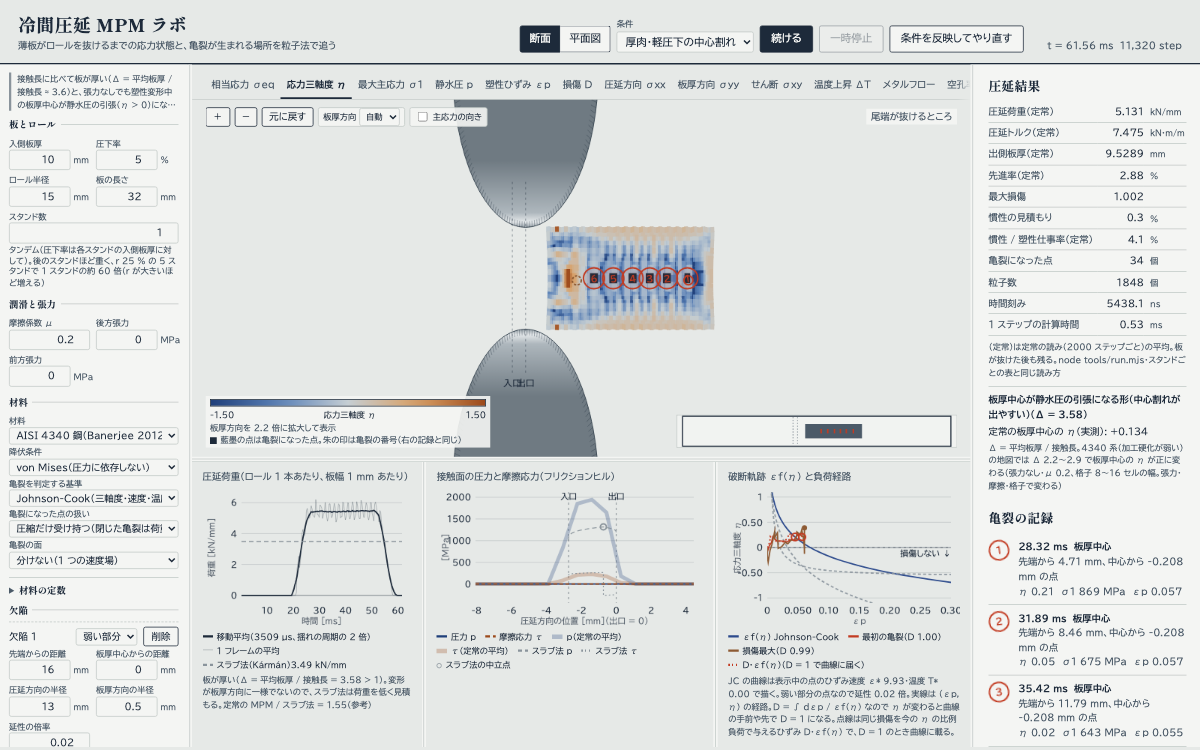
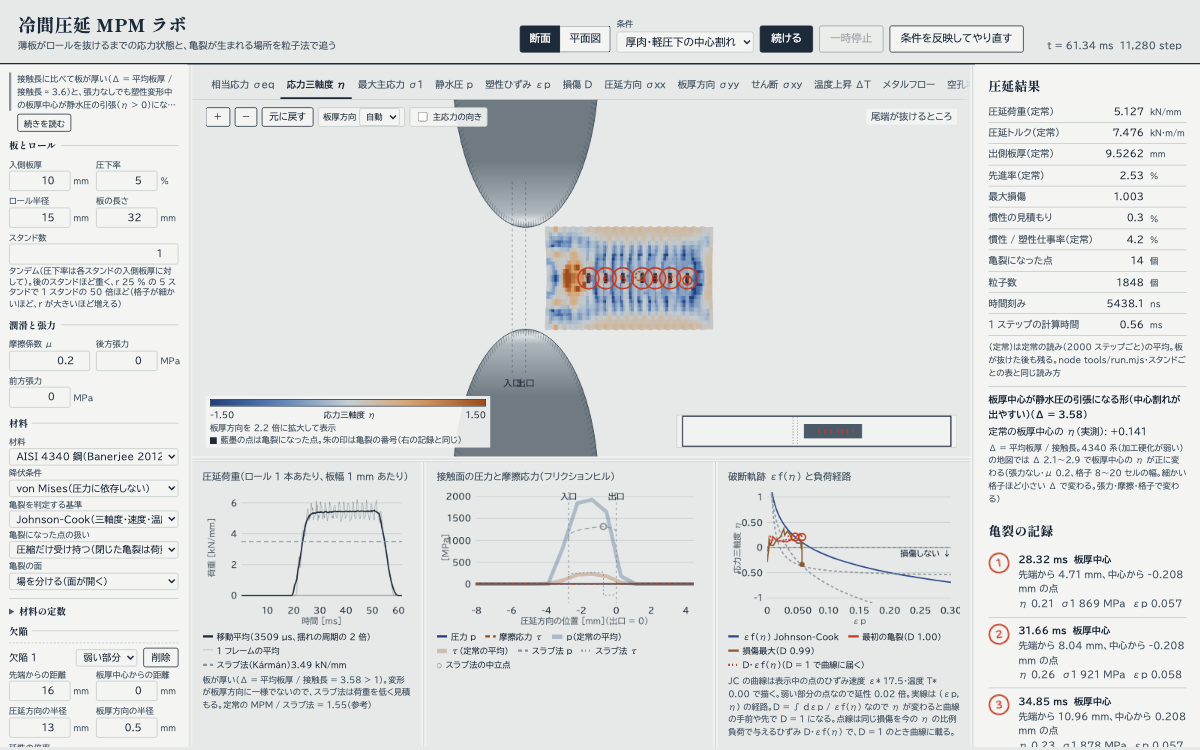
feat(crack): make the split crack faces (DFG) the default, and re-measure every crack number
numerics.crackFields goes from 'none' to 'dfg': near a crack the points split,
node by node, into two velocity fields that meet by frictionless contact, so the
faces open instead of carrying load through the shared nodes. ?crack=none and the
panel's 「分けない（1 つの速度場）」 go back to the old behaviour.

The one-line default is the small part. Every crack number in the docs was measured
under 'none', so all of them are re-measured here (grid, sheet length, mass scaling,
Node version and date written next to each):

- docs/presets.md: the front-tension threshold table, central burst (6 -> 7 cracks,
  34 -> 14 failed points, +1.8 -> +1.9 % forward slip), the ductility x grid table
- docs/validation.md: the plan-view edge-crack limits (C 0.1: 2 cracks / 112 points
  -> 1 crack / 106 points), the tandem front-tension break ('separated' -> 'lost',
  9.96 -> 9.57 % of the mass lost), the T52 edge-scatter tables (six seeds, the
  amount / width / correlation length sweep, both grids), the T46 failed-point
  pressure ratios, the central-burst steady values
- README.md: the front-tension and central-burst figures re-shot, the numbers and
  the wording of 「亀裂の面」 swapped round

Checked and written down where the default does NOT move anything: the central-burst
map (no damage, so no failed point and the run is bit-identical), the tandem cost
table (no failed point in any stand), and the README's front-tension figure (the
[…]

diff --git a/src/mpm/params.ts b/src/mpm/params.ts
@@ -156,10 +156,10 @@ export interface NumericsParams {
   /** which nodes the roll contact constrains */
   contact: ContactScheme;
   /**
-   * The faces of a crack (docs/model.md「亀裂の面」). 'none' (default): one velocity field, the two sides of a
-   * crack share the nodes around it. 'dfg': near a crack the points split, node by node, into two velocity fields
-   * by the side of the crack they are on (the gradient of the failed points' field, Homel & Herbold 2017); the
-   * fields meet by frictionless contact: they do not go through each other and are free to separate
+   * The faces of a crack (docs/model.md「亀裂の面」). 'dfg' (the default since T74): near a crack the points
+   * split, node by node, into two velocity fields by the side of the crack they are on (the gradient of the failed points' field, Homel & Herbold 2017); the
+   * fields meet by frictionless contact: they do not go through each other and are free to separate.
+   * 'none': one velocity field, the two sides of a crack share the nodes around it (what an omitted field means too)
    */
   crackFields?: 'none' | 'dfg';
   /**
@@ -327,7 +327,7 @@ export function defaultParams(): SimParams {
       volumetric: 'rate',
       volRelax: 1,
       volRelaxContact: 1,
-      crackFields: 'none',
+      crackFields: 'dfg',
       contact: 'surface',
     },
     defects: [],

diff --git a/src/app/panel.ts b/src/app/panel.ts
@@ -179,8 +179,8 @@ export function buildPanel(root: HTMLElement, onEdit: () => void): Panel {
   );
   matGroup.append(
     select('crack', '亀裂の面', [
-      ['none', '分けない（1 つの速度場）'],
       ['dfg', '場を分ける（面が開く）'],
+      ['none', '分けない（1 つの速度場）'],
     ]),
   );
 

diff --git a/docs/validation.md b/docs/validation.md
@@ -757,18 +757,25 @@ node（`node tools/planview.mjs --W 20 --cells 10 --L 28`）は 3.8 / 3.1 / 5.5 
   出口の先で端の圧縮の帯が広がる（端が圧縮で降伏し続ける）ことは**未検証**（比べる文献・解析解が無い）
 
 端割れ（W 20 mm・h 0.5 mm、板長 16 mm、Cockcroft-Latham、`--L 16 --damage cockcroft-latham --cl <C> [--notch <mm>]`）。
-**体積の平均化を入れて（T63）割れにくくなったので、限界値を測り直した**（下の「体積の平均化（平面図）」に前の値）:
+**体積の平均化を入れて（T63）割れにくくなったので、限界値を測り直した**（下の「体積の平均化（平面図）」に前の値）。
+下の表は**亀裂の面を既定の 'dfg' にした後の測り直し**（T74。2026-09-20、`feat/dfg-default`、Apple M2・Node 24.14、CPU ロック）:
 
 | 限界値 C | 切り欠き（半径） | 結果 |
 |---|---|---|
-| 0.1 | なし | 端（中央から 9.88 mm = 最外の列）から 2 本、合わせて 112 点（3.0 × 1.5 mm と 2.5 × 1.5 mm） |
-| 0.12 | なし | 端で 1 本、61 点（4.0 × 1.0 mm） |
+| 0.1 | なし | 端（中央から 9.88 mm = 最外の列）から 1 本、106 点（5.25 × 1.50 mm） |
+| 0.12 | なし | 端で 1 本、55 点（4.00 × 1.00 mm） |
 | 0.15 | なし | 割れない |
-| 0.1 | 0.5 mm | 端の帯（45 点）と切り欠きの根元（27 点、中央から 9.38 mm） |
-| 0.15 | 0.5 mm | 切り欠きの根元だけ 8 点（0.5 × 0.5 mm、η −0.03） |
+| 0.1 | 0.5 mm | 端の帯（43 点、2.50 × 1.25 mm）と切り欠きの根元（25 点、中央から 9.38 mm、1.00 × 1.50 mm） |
+| 0.15 | 0.5 mm | 切り欠きの根元だけ 4 点（0.25 × 0.25 mm、η −0.03） |
 | 0.2 | 0.5 mm | 割れない |
 
-割れの形は端に沿った帯で、圧延方向に直角にはならない（`docs/model.md`「平面図モデル」）。亀裂の面を分けても（'dfg'）帯のまま（下の「亀裂の面」の「平面図」）。
+**限界値の閾値は亀裂の面の扱いによらない**（割れる／割れないの境目は C 0.12〜0.15、切り欠きつきで 0.15〜0.2 のまま）。
+最初の割れも同じ（破壊した点が 1 つも無い間はビット一致するので、時刻・場所・η が変わらない。下の「亀裂の面」）。
+変わるのは**その後の割れの数と破壊した点の数**で、前の既定（'none'、場を分けない）では C 0.1 が 2 本・112 点（3.0 × 1.5 と 2.5 × 1.5 mm）、
+C 0.12 が 61 点、切り欠き + C 0.1 が 45 点と 27 点、切り欠き + C 0.15 が 8 点（0.5 × 0.5 mm）だった。
+破壊した点の数はどれも減る（面が開いて周りの引張を遮るため）。C 0.1 だけは割れの数が 2 → 1 本に減っているが、長さ 5.25 mm・106 点で 'none' の 2 本（3.0 + 2.5 mm・合計 112 点）とほぼ同じ範囲を占めるので、**2 本が 1 つの記録にまとまった**と読むのが素直（記録は核生成のたびに 1 つで、後から同じ帯に繋がった点は先の記録に入る）。
+
+割れの形は端に沿った帯で、圧延方向に直角にはならない（`docs/model.md`「平面図モデル」）。既定の 'dfg' でも帯のまま（下の「亀裂の面」の「平面図」）。
 関門の `tools/checks/planview.mjs`（幅 10 mm・h 0.5 mm、負荷の高い M2 で 27〜39 s）:
 - 平面応力: **すべての計算の毎ステップ**、接触していない点の |σ_yy| ≤ 0.01 MPa（解は 1 kPa で閉じる。今 1.0e-3 MPa）
 - 接触で板厚 = 隙間、接触が入れ替わらない（600 ステップで 3 回以上の点が 0）
@@ -899,6 +906,7 @@ v_z = 0 を全節点で強制した写しは中央 3.18・半幅平均 3.190 で
 - 荷重はスタンドごとに上がる（加工硬化。2 スタンド目で +14 %、3 スタンド目で +2 %）。最大損傷はスタンドをまたいで積み上がる
 - 点の数は 1.77 / 1.78 倍、所要は 2.7 / 2.3 倍（ステップが 1.4〜1.5 倍、点が 1.8 倍。負荷の軽いときの値）
 - 入側板厚（面積 ÷ 長さ）と出口の計測（前のスタンドの定常の出口の計測の平均）は 0.19 / 0.07 / 0.00 % 違う（出口の計測のほうが厚い: 表層の縁の測り方）
+- **この表は亀裂の面の扱いによらない**（T74）: どのスタンドも破壊した点が 0（最大損傷 0.0112）なので、'dfg' を既定にした計算は 'none' とビット一致する
 
 **費用**（T62）: `node tools/tandem.mjs --stands 1|5 --cells <N> --L <mm> --json` の壁時計（CPU ロック、`resource-check.sh timing` が OK のとき）。
 
@@ -912,10 +920,17 @@ v_z = 0 を全節点で強制した写しは中央 3.18・半幅平均 3.190 で
 5 スタンドの合計は 1 スタンドの 51 倍（4 セル）・79 倍（6 セル）。格子が細かいほど比は大きい。既定の 10 セル・板長 16 mm の 5 スタンドは測っていない
 （1 スタンドが約 90 s なので、この比なら 2 時間前後になる）。測定: 2026-09-20、main af3a981（4 セルの 3 組目は 438fa48。#63 は 'dfg' の経路だけを変える）、Apple M2・Node 24.14。
 
-**前方張力で 1 スタンド目に割れる条件**（`--preset front-tension --stands 2 --cells 4`、最初の板長 16 mm）:
-1 スタンド目で頭端の掴みのすぐ外に亀裂が 3 つ（破壊した点 20）。亀裂は板厚を貫き（隣り合う 3 列で、どの行にも破壊した点）、
-千切れた頭端（104 点、質量の 9.96 %）は done になる前に格子の外へ出た。**タンデムは 1 スタンド目の後で止まる**（`stopped` が
-'separated'。実機の板切れと同じ）。2 スタンド目は作らない。スタンドの結果に、失われた質量（`massLost`）と貫通（`separated`）が出る。
+**前方張力で 1 スタンド目に割れる条件**（`--preset front-tension --stands 2 --cells 4`、最初の板長 16 mm）。
+**亀裂の面を既定の 'dfg' にした後の測り直し**（T74）:
+1 スタンド目で頭端の掴みのすぐ外に亀裂が 3 つ（21.9 ms、ステップ 13 337 と 13 410、頭端から 1.6 mm、η 0.35〜0.62。
+記録に入った破壊した点は合わせて 6 点、締めの時点で格子に残るのは 4 点）。千切れた頭端は質量の 9.57 % を持って格子の外へ出て、
+**タンデムは 1 スタンド目の後で止まる**（`stopped` が 'lost'）。2 スタンド目は作らない。
+スタンドの結果に、失われた質量（`massLost` 0.0957）と貫通（`separated`、ここでは false）が出る。
+
+前の既定（'none'）では同じ条件で破壊した点が 20 で、隣り合う 3 列のどの行にも点があって**板厚を貫き**、`separated` が true になって
+'separated' で止まっていた（千切れた頭端は 104 点・質量の 9.96 %）。面を分けると割れ目が開いた時点で頭端が荷重を運ばなくなるので、
+点がそこまで増えないうちに頭端が離れる。**板が切れてタンデムが止まること自体は変わらない**（止まる理由が 'separated' → 'lost' に変わる）。
+貫通の判定そのものは関門で見ている（`tools/checks/tandem-cracks.mjs` の、弱い欠陥を置いて板厚を貫かせる場合は既定の 'dfg' でも 'separated'）。
 （レビューの前の版は、失われた点を黙って落として 2 スタンド目へ進み、新しい掴みに破壊した点が写って、前方張力が約 3/4 のステップで効いていなかった。）
 
 **スタンドの終わりと失われる点**: 次のスタンドがあるスタンドは、done になった最初のステップで締める。以前は 2000 ステップごとの読みまで待ち、
@@ -941,9 +956,27 @@ h0 NaN・0 点）。今はどちらも 1 点も失わずに 2 スタンド目へ
 - 平均を読むだけで散布しない案は発散した（帯の点に偏差の剛さが無く、その点の体積のずれに逆らうものが無い。tr L の積分が 0.1 → 4.5、そのあと NaN）
 - 亀裂のある条件への影響（変更前 → 後）: 前方張力（6 セル）は全項目一致（破壊した点はずっと引張）。中心割れ（12 セル）は荷重 5.130 → 5.131 kN/mm、
   先進率 2.86 → 2.88 %、亀裂は同じ 6 個（最初は 28.3 ms・頭端から 4.7 mm）。空洞（10 セル）は破壊が無いので全項目一致。標準は全項目一致
+  （どれも当時の既定の亀裂の面 'none' で測ったもの。T74 で既定が 'dfg' になった後の中心割れは亀裂 7 個・荷重 5.127 kN/mm・先進率 2.45 %。
+  上の「中心割れのプリセットの定常の値」）
 - 副作用: 閉じた帯を通した後の、開いた帯の体積の増え（ln J の平均）が +0.064 → +0.095（`docs/model.md`「既知の限界」）
 
 測定: 2026-09-20、Apple M2・Node 24.14、質量スケーリング 1e4。変更前は main 6325d49。
+
+**亀裂の面を既定の 'dfg' にした後の測り直し**（T74。同じ条件を両方の扱いで。`feat/dfg-default`（main d4101cd の上）、2026-09-20、CPU ロック）:
+
+| 格子 | 切った点 | 切らない | 'none'（前の既定） | 'dfg'（今の既定） |
+|---|---|---|---|---|
+| 4 セル | 帯 | 0.67 GPa | 0.56 GPa（0.83 倍） | 0.73 GPa（1.09 倍） |
+| 4 セル | ブロック | 0.60 | 0.52（0.87） | 0.68（1.12） |
+| 6 セル | 帯 | 0.59 | 0.62（1.06） | 0.58（0.99） |
+| 6 セル | ブロック | 0.51 | 0.52（1.01） | 0.75（1.46） |
+
+- 上の表（T46 当時）と 'none' の列が数 % 〜 2 割違うのは、その後の main（接触・体積の扱い）の変化であって、亀裂の面とは別
+- **'dfg' では比が上がる**（4 セルで 1.09・1.12、6 セル・ブロックで 1.46）。切った点は亀裂の近くで第 2 の場へ分かれ、
+  体積の平均は場ごとに読むので（`docs/model.md`「亀裂の面」「体積の平均化」）、平均に入る相手が切った点どうしに限られ、
+  T46 の前の「自分の tr L」に近いばらつきが戻る。**ただし 1.7〜3.6 倍だった頃までは戻らない**
+- 関門（`tools/checks/failed-pressure.mjs`）は 4 セルだけを見るので、既定の 'dfg' でも比 1.09 / 1.12 で境（1.5）の内側。
+  6 セル・ブロックの 1.46 は境に近いが、関門の条件ではない
 
 ## 中心割れのプリセットの定常の値（T62）
 
@@ -953,10 +986,15 @@ h0 NaN・0 点）。今はどちらも 1 点も失わずに 2 スタンド目へ
 
 | 読みの間隔 | 定常の荷重 [kN/mm] | トルク [kN·m/m] | 出側板厚 [mm] | 先進率 | 亀裂 | 最初の亀裂 |
 |---|---|---|---|---|---|---|
-| 250 ステップ | 5.433 | 8.92 | 9.524 | 1.79 % | 6 | 28.32 ms、頭端から 4.71 mm |
-| 2000 ステップ（既定） | 5.131 | 7.47 | 9.529 | 2.88 % | 6 | 同じ |
+| 250 ステップ | 5.429 | 8.93 | 9.523 | 1.89 % | 7 | 28.32 ms、頭端から 4.71 mm |
+| 2000 ステップ（既定） | 5.127 | 7.48 | 9.525 | 2.45 % | 7 | 同じ |
 
-スラブ法は 3.49 kN/mm（比 1.56）。測定: 2026-09-20、main af3a981、Apple M2・Node 24.14、CPU ロック。
+スラブ法は 3.49 kN/mm（比 1.56）。測定: 2026-09-20、`feat/dfg-default`（main d4101cd の上）、Apple M2・Node 24.14、CPU ロック。
+
+**T74 で亀裂の面の既定を 'dfg' にして測り直した値**。'none' で測った前の値は 250 ステップで 5.433 / 8.92 / 9.524 / 1.79 % / 亀裂 6、
+2000 ステップで 5.131 / 7.47 / 9.529 / 2.88 % / 亀裂 6（main af3a981）。**最初の亀裂は両モードで同じ**（28.316 ms、頭端から 4.708 mm、η 0.207。
+破壊した点が 1 つも無いうちはビット一致する）。違うのはその後で、面が開くと亀裂が 6 → 7 個に増え、破壊した点は 34 → 14 点に減り、
+定常の平均も最後の 2 桁が動く（先進率は 2.88 → 2.45 %）。
 
 ## 中心割れの地図（板厚中心の三軸度、T53、`tools/burst-map.mjs`）
 
@@ -964,7 +1002,8 @@ h0 NaN・0 点）。今はどちらも 1 点も失わずに 2 スタンド目へ
 延性の選び方（中心割れのプリセットは 1/50）で決まってしまうので、**板厚中心の η の符号**で作る。
 
 **条件**: ロール半径 15 mm・μ 0.2（中心割れのプリセットと同じ）、張力なし、損傷なし（'none'。この損傷は材料を軟らかくしないので η は変わらない。
-プリセットの損傷と延性 1/20 の帯を入れても同じ値）。Δ = 平均板厚 / 接触長 = (1 − r/2) √(h0 / (r R)) を板厚で振る
+プリセットの損傷と延性 1/20 の帯を入れても同じ値）。**損傷なしで破壊した点が出ないので、この地図は亀裂の面の扱いによらない**
+（T74 で既定を 'dfg' にしても 'none' とビット一致。`tools/burst-map.mjs` の `BURST_DELTA` も同じ）。Δ = 平均板厚 / 接触長 = (1 − r/2) √(h0 / (r R)) を板厚で振る
 （h0 = Δ² R r / (1 − r/2)²）。板長は max(3.2 h0, 8 Lc)。材料は 4340（Johnson-Cook）と SPCC（Swift）。
 **測り方**: 定常の相の間、50 ステップごとに、ロールバイトの中（−Lc < x < 0）にある中心の 2 行（格子の行）の η を、その 50 ステップの塑性ひずみの増分で重み付けして平均。
 表層は上下の端の行。F / スラブ法は定常の荷重（250 ステップごとの読み）と `karman()` の比。
@@ -1024,6 +1063,10 @@ h0 NaN・0 点）。今はどちらも 1 点も失わずに 2 スタンド目へ
 画面では、圧延結果の表の下に今の条件の Δ とこの地図の区分、定常の板厚中心の η の実測（`src/mpm/midplane.ts`、この節と同じ測り方）を出す（T54、README「グラフと数値」）。
 
 ## 亀裂の面（T17、`numerics.crackFields`、`tools/checks/crack-fields.mjs`）
+
+**T74 で 'dfg' が既定になった**（URL の `&crack=none` と条件パネルの「分けない（1 つの速度場）」で前の挙動に戻せる）。
+この節の表はどちらのモードも明示して測ったものなので、既定の変更では動かない。**破壊した点が 1 つも無い計算は 2 つのモードでビット一致する**
+（関門で見ている）ので、割れない条件の数値と、どの条件でも**最初の亀裂**の時刻・場所・η はモードによらない。変わるのは最初の亀裂より後だけ。
 
 段 1 は試作で方式を比べた（破壊した点だけを別の場へ移す 'material' と、節点ごとに亀裂の両側で分ける 'dfg'）。'material' は亀裂の両側の
 健全な点が同じ場で節点を共有するので、閉じた切れ目が出口の先で開かず（両側の点の間隔 4 dp のまま）、採らなかった。段 2 は 'dfg' の本実装で、
@@ -1196,6 +1239,10 @@ pfAny を 0 に戻さない（結果がビットまで同じ）。
 | 0.15 | 亀裂 1・39 点 | 割れない |
 | 0.2 + 切り欠き 0.5 mm | 切り欠きの根元から 12 点 | 割れない（根元から割れるのは C 0.15 まで） |
 
+この表の両方の列は**亀裂の面 'none'**（T74 の前の既定）で測ったもので、T63 の平均化だけを比べるために残す。
+今の既定（'dfg'）の値は上の「平面図モデル」の端割れの表（C 0.1 で 1 本・106 点）。割れる／割れない、最初の割れのステップと場所は
+どちらの扱いでも同じなので、この表の読み方は変わらない。
+
 - むらが減ると、**割れ始めが遅く・少なく・より端寄り**になる。むらの裾（偽の引張）で先に壊れていた点が壊れなくなるため
 - 関門の耳割れの 3 項目（`tools/checks/planview.mjs`、W 10 mm・板長 8 mm）も測り直した: 端から割れるのは C 0.05（前は 0.1）、割れないのは C 0.1（前は 0.2）、
   切り欠きの根元から割れるのは C 0.1 + 切り欠き 0.5 mm（前は 0.2 + 切り欠き）。点ごとでは C 0.1 以下だと切り欠きの有無で変わらず頭端の近く（端から 0.87 mm）から割れていたが、
@@ -1213,63 +1260,81 @@ pfAny を 0 に戻さない（結果がビットまで同じ）。
 ## 端の延性のばらつき（平面図、T52、`plan.edgeScatter`）
 
 端の帯の延性を種つきの擬似乱数で下げる条件（`docs/model.md`「端の延性のばらつき」）。**既定は大きさ 0（無効）で、今までの結果とビット一致**
-（`tools/checks/planview-edge-scatter.mjs`）。ここの数値は W 20 mm・板長 16 mm・Cockcroft-Latham・体積の平均化あり（T63 の後の既定）。
+（`tools/checks/planview-edge-scatter.mjs`）。ここの数値は W 20 mm・板長 16 mm・Cockcroft-Latham・体積の平均化あり（T63 の後の既定）・亀裂の面 'dfg'（T74 の後の既定）。
 割れの位置は未変形の板の頭端からの距離、長さは圧延方向、深さは端から板幅の中央へ、間隔は隣り合う割れの中心の距離。
 
 **限界値 C の選び方**: 一様な端が割れない C（0.15）は、そこでの最大 dCL が 0.99 で、割れるかどうかが最後の 1 % で決まる。
 下の表と関門はどちらも **C 0.13**（一様な端が 1 本だけ割れる値）で読み、「割れる／割れない」ではなく「1 本の帯が何本に分かれるか」で見る。
 
-**種（大きさ 20 %・帯の幅 1 mm・相関長 1 mm、h 0.5 mm = 半幅 20 セル）**:
+**種（大きさ 20 %・帯の幅 1 mm・相関長 1 mm、h 0.5 mm = 半幅 20 セル）** — **亀裂の面を既定の 'dfg' にした後の測り直し**
+（T74。前の既定 'none' の値は下の「前の既定との差」）:
 
 | 種 | 割れの数 | 破壊した点 | 頭端から [mm] | 間隔 [mm] | 長さ [mm] | 深さ [mm] |
 |---|---|---|---|---|---|---|
-| 一様（大きさ 0） | 1 | 43 | 5.12 | — | 3.25 | 1.00 |
-| 1 | 3 | 65 | 3.87 / 6.12 / 8.13 | 2.25 / 2.00 | 1.50 / 1.50 / 1.25 | 0.75 / 1.00 / 0.75 |
-| 2 | 4 | 63 | 3.62 / 4.88 / 6.12 / 10.13 | 1.25 / 1.25 / 4.00 | 0.75 / 0.75 / 2.25 / 0.75 | 0.50 / 0.25 / 1.00 / 0.50 |
-| 3 | 3 | 52 | 4.12 / 6.12 / 9.13 | 2.00 / 3.00 | 1.00 / 1.50 / 0.75 | 0.75 / 1.00 / 0.50 |
-| 4 | 3 | 68 | 4.12 / 6.12 / 9.13 | 2.00 / 3.00 | 1.25 / 2.00 / 0.75 | 0.75 / 1.00 / 0.75 |
-| 5 | 3 | 57 | 3.87 / 7.12 / 10.13 | 3.25 / 3.00 | 2.25 / 1.25 / 0.50 | 0.75 / 1.00 / 0.50 |
-| 6 | 3 | 60 | 3.87 / 7.12 / 8.13 | 3.25 / 1.00 | 2.50 / 0.00 / 1.75 | 1.00 / 0.25 / 0.75 |
+| 一様（大きさ 0） | 1 | 37 | 5.12 | — | 3.00 | 0.75 |
+| 1 | 4 | 44 | 3.87 / 4.62 / 6.12 / 8.12 | 0.75 / 1.50 / 2.00 | 0.00 / 0.25 / 1.25 / 1.25 | 0.25 / 0.50 / 0.75 / 0.75 |
+| 2 | 3 | 42 | 3.62 / 6.12 / 10.13 | 2.50 / 4.00 | 0.25 / 1.75 / 0.50 | 0.50 / 1.00 / 0.25 |
+| 3 | 3 | 38 | 4.12 / 6.12 / 9.13 | 2.00 / 3.00 | 0.75 / 1.25 / 0.75 | 0.50 / 1.00 / 0.50 |
+| 4 | 3 | 58 | 4.12 / 6.12 / 9.13 | 2.00 / 3.00 | 1.00 / 2.00 / 0.50 | 0.75 / 0.75 / 0.75 |
+| 5 | 3 | 44 | 3.87 / 7.12 / 10.13 | 3.25 / 3.00 | 2.25 / 1.00 / 0.00 | 0.75 / 0.75 / 0.50 |
+| 6 | 3 | 45 | 3.87 / 7.12 / 8.12 | 3.25 / 1.00 | 2.25 / 0.00 / 0.75 | 1.00 / 0.00 / 0.75 |
 
-- **6 つの種の中央値**: 割れ 3 本（3〜4）、破壊した点 61（52〜68）、間隔 2.13 mm（1.00〜4.00、14 個）。一様な端の 1 本（長さ 3.25 mm の帯）が、
-  **1〜2.5 mm の割れ 3 本前後に分かれる**。破壊した点の合計は 43 → 52〜68 と増える（割れが早く始まるため。最初の割れは 4 085 → 3 308〜3 623 ステップ）
-- **1 本の計算では何も言えない**。間隔は種によって 1〜4 mm に散る。数値を出すときは種を 5 つ以上振って中央値と範囲を書くこと
+- **6 つの種の中央値**: 割れ 3 本（3〜4）、破壊した点 44（38〜58）、間隔 2.50 mm（0.75〜4.00、13 個）。一様な端の 1 本（長さ 3.00 mm の帯）が、
+  **0〜2.25 mm の割れ 3 本前後に分かれる**。破壊した点の合計は 37 → 38〜58 と増える（割れが早く始まるため。最初の割れは 4 085 → 3 308〜3 623 ステップ）
+- **最初の割れのステップは亀裂の面の扱いによらない**（破壊した点が 1 つも無い間はビット一致する。下の「亀裂の面」）。
+  上の 4 085 / 3 308〜3 623 は 'none' で測った値とそのまま一致し、変わったのはその後の割れの数と点の数だけ
+- **1 本の計算では何も言えない**。間隔は種によって 0.75〜4 mm に散る。数値を出すときは種を 5 つ以上振って中央値と範囲を書くこと
+- **前の既定との差**（'none'、場を分けない）: 一様 1 本・43 点（長さ 3.25 / 深さ 1.00）、種 1〜6 は 3 / 4 / 3 / 3 / 3 / 3 本・65 / 63 / 52 / 68 / 57 / 60 点。
+  面が開いて周りの引張を遮るので、**破壊した点は 2〜4 割減り、割れは短く・浅くなる**（種 1 は 3 本 → 4 本に分かれた）。
+  種によって割れの数が変わる（3〜4 本に散る）という読み方は両方の扱いで同じ
 
 **ばらつきの大きさ・帯の幅・相関長（種 1、h 0.5 mm。既定の組み合わせは大きさ 20 %・幅 1 mm・相関長 1 mm）**:
 
 | 変えたもの | 割れの数 | 破壊した点 | 間隔 [mm] | 長さ [mm] | 深さ [mm] |
 |---|---|---|---|---|---|
-| 大きさ 10 % | 2 | 60 | 3.50 | 3.00 / 1.75 | 1.00 / 0.75 |
-| 大きさ 20 %（上の種 1） | 3 | 65 | 2.25 / 2.00 | 1.50 / 1.50 / 1.25 | 0.75 / 1.00 / 0.75 |
-| 大きさ 30 % | 4 | 72 | 1.25 / 1.25 / 2.00 | 0.75 / 0.50 / 1.25 / 1.75 | 0.75 / 0.75 / 1.00 / 1.00 |
-| 帯の幅 0.5 mm | 3 | 68 | 2.25 / 2.00 | 1.50 / 2.50 / 2.00 | 0.25 / 1.00 / 0.75 |
-| 帯の幅 2 mm | 3 | 70 | 2.25 / 2.00 | 1.50 / 1.50 / 1.00 | 0.75 / 1.00 / 1.25 |
-| 相関長 0（点ごと） | 2 | 74 | 3.25 | 2.75 / 3.50 | 0.75 / 0.75 |
-| 相関長 0.5 mm | 2 | 52 | 3.50 | 1.75 / 1.25 | 0.75 / 1.00 |
-| 相関長 2 mm | 1 | 72 | — | 5.00 | 0.75 |
+| 大きさ 10 % | 3 | 37 | 1.50 / 2.00 | 0.75 / 1.75 / 0.50 | 0.25 / 0.75 / 0.75 |
+| 大きさ 20 %（上の種 1） | 4 | 44 | 0.75 / 1.50 / 2.00 | 0.00 / 0.25 / 1.25 / 1.25 | 0.25 / 0.50 / 0.75 / 0.75 |
+| 大きさ 30 % | 4 | 50 | 1.25 / 1.25 / 2.00 | 0.50 / 0.25 / 1.25 / 1.50 | 0.75 / 0.50 / 0.75 / 0.75 |
+| 帯の幅 0.5 mm | 4 | 39 | 0.75 / 1.50 / 2.00 | 0.00 / 0.25 / 1.25 / 1.75 | 0.25 / 0.25 / 0.75 / 0.50 |
+| 帯の幅 2 mm | 4 | 48 | 0.75 / 1.50 / 2.00 | 0.00 / 0.25 / 1.25 / 1.00 | 0.25 / 0.50 / 1.00 / 1.25 |
+| 相関長 0（点ごと） | 3 | 40 | 0.75 / 2.50 | 0.00 / 2.25 / 3.25 | 0.25 / 0.75 / 0.75 |
+| 相関長 0.5 mm | 2 | 42 | 3.50 | 1.75 / 1.25 | 0.75 / 0.75 |
+| 相関長 2 mm | 1 | 65 | — | 4.50 | 0.75 |
 
-- **大きさを上げるほど割れは多く・短くなる**（10 % で 2 本・長さ 1.75〜3.00 mm、30 % で 4 本・0.50〜1.75 mm）。割れ始めも早い
-- **相関長を伸ばすほど割れは少なく・長くなる**（2 mm で 1 本・長さ 5.00 mm。弱い帯が長く続くので一続きに壊れる）。
-  割れの間隔は相関長そのものではなく 1〜4 mm に散る
+（同じく T74 の測り直し。前の既定 'none' では上から 2 / 3 / 4 / 3 / 3 / 2 / 2 / 1 本・60 / 65 / 72 / 68 / 70 / 74 / 52 / 72 点で、
+割れは多くの行で今より長かった（大きさ 10 % で 1.75〜3.00、相関長 2 mm で 5.00 mm。相関長 0.5 mm だけは 1.75 / 1.25 mm で同じ）。）
+
+- **大きさを上げるほど割れ始めが早く、破壊した点が増える**（種 1 の最初の割れが 10 / 20 / 30 % で 3 844 / 3 413 / 3 193 ステップ、点は 37 / 44 / 50）。
+  割れの数は 3 / 4 / 4 本で、'none' のときほど大きさに揃わない（'none' では 2 / 3 / 4 本）
+- **相関長 2 mm では 1 本にまとまる**（長さ 4.50 mm。弱い帯が長く続くので一続きに壊れる）。0〜1 mm では 2〜4 本で、単調ではない。
+  割れの間隔は相関長そのものではなく 0.75〜3.5 mm に散る
 - **帯の幅は割れの深さを決めきらない**。段 1 のメモは C 0.15（一様では割れない値）で測って「割れは弱い帯より深くは入らない」としたが、
-  C 0.13 では帯の外の延性でも割れが進むので、幅 0.5 mm でも深さ 1.00 mm まで入る。幅が効くのは**どこで割れ始めるか**と深さの偏り（0.5 mm で 0.25〜1.00、2 mm で 0.75〜1.25）
+  C 0.13 では帯の外の延性でも割れが進むので、幅 0.5 mm でも深さ 0.75 mm（帯の幅より深い）まで入る。
+  幅が効くのは**どこで割れ始めるか**と深さの偏り（0.5 mm で 0.25〜0.75、2 mm で 0.25〜1.25）
 
 **格子（大きさ 20 %・帯の幅 1 mm）** — 破壊した点の数は格子の点の数（4 倍）ごと増えるので、格子をまたいで比べない:
 
 | | h 0.5 mm（20 セル） | h 0.25 mm（40 セル） |
 |---|---|---|
-| 一様 | 1 本・43 点・長さ 3.25 mm | 1 本・267 点・長さ 4.63 mm |
-| 相関長 1 mm・種 1 | 3 本・間隔 2.25 / 2.00 | 4 本・間隔 1.63 / 1.12 / 2.00 |
-| 相関長 1 mm・種 2 | 4 本・間隔 1.25 / 1.25 / 4.00 | 5 本・間隔 1.25 / 1.62 / 1.00 / 3.00 |
-| 相関長 0（点ごと）・種 1 | 2 本・間隔 3.25 | **10 本**・間隔 0.00〜2.50（中央値 0.75） |
+| 一様 | 1 本・37 点・長さ 3.00 mm | 1 本・252 点・長さ 4.50 mm |
+| 相関長 1 mm・種 1 | 4 本・間隔 0.75 / 1.50 / 2.00 | 4 本・間隔 1.63 / 1.12 / 2.00 |
+| 相関長 1 mm・種 2 | 3 本・間隔 2.50 / 4.00 | 4 本・間隔 2.88 / 1.00 / 3.00 |
+| 相関長 0（点ごと）・種 1 | 3 本・間隔 0.75 / 2.50 | **13 本**・間隔 0.00〜2.13（中央値 0.44） |
 
-- **点ごとのばらつき（相関長 0）は割れの間隔を格子で決めてしまう**（h を半分にすると 2 → 10 本）。相関長を持たせるのはこれを断つため
-- **ただし相関長 1 mm でも格子依存は残る**: 種 1・2 で 3 → 4 本・4 → 5 本、間隔の中央値は 2.00 → 1.62 mm。
-  残りは材料の場ではなく割れの進み方の解像度（細かい格子ほど先端の損傷が解けて割れが伸びる）。**数値を載せるときは格子 2 段を必ず併記する**
-- 所要（1 本）: h 0.5 mm で 11〜15 s、h 0.25 mm で 96〜123 s
+（同じく T74 の測り直し。前の既定 'none' では 一様 43 / 267 点、種 1 が 3 → 4 本、種 2 が 4 → 5 本、相関長 0 が 2 → 10 本だった。）
 
-**亀裂の面（'dfg'）と併用**（大きさ 20 %・幅 1 mm・相関長 1 mm・種 1、h 0.5 mm）: 4 本・破壊 44 点（'none' は 3 本・65 点）、
-長さ 0〜1.25 mm・深さ 0.25〜0.75 mm。面が開いて周りの引張を遮るので、**割れは横に伸びず、点の少ない短い割れが増える**（T50 段 1 と同じ傾向）。
+- **点ごとのばらつき（相関長 0）は割れの間隔を格子で決めてしまう**（h を半分にすると 3 → 13 本、間隔の中央値 1.62 → 0.44 mm）。
+  相関長を持たせるのはこれを断つため
+- **相関長 1 mm を入れると格子依存はかなり落ちる**: 種 1 は 4 本のまま、種 2 は 3 → 4 本、間隔の中央値は 1.50 → 1.63 mm・3.25 → 2.88 mm。
+  ただし 1 本ごとの位置と長さは格子で動く（種 1 の 2 本目が粗い格子では長さ 0（1 点）、細かい格子では 0 と 1.37 mm に分かれる）ので、
+  **数値を載せるときは格子 2 段を必ず併記する**。前の既定（'none'）では本数も 3 → 4・4 → 5 本と動いていたので、
+  面を分けたほうが格子に対して素直（割れが横に伸びない分、解像度で伸び方が変わらない）
+- 所要（1 本）: h 0.5 mm で 11〜25 s、h 0.25 mm で 103〜166 s
+
+**亀裂の面**: T52 を測った時点の既定は 'none'（場を分けない）で、T74 で 'dfg' が既定になったので上の 3 つの表はすべて測り直した。
+種 1（大きさ 20 %・幅 1 mm・相関長 1 mm、h 0.5 mm）で 3 本・65 点 → 4 本・44 点、長さ 0〜1.25 mm・深さ 0.25〜0.75 mm。
+面が開いて周りの引張を遮るので、**割れは横に伸びず、点の少ない短い割れが増える**（T50 段 1 と同じ傾向）。
+割れる／割れないと最初の割れのステップは扱いによらない。
 
 **実機との突き合わせ**: 耳割れの深さは条件が良ければ 0.5 mm 以下、悪いと 2 mm 以上（[Edge Crack, ScienceDirect Topics](https://www.sciencedirect.com/topics/engineering/edge-crack)、
 [The Formation of Edge Cracks during Rolling of Metal Sheet, Fraunhofer](https://publica.fraunhofer.de/bitstreams/eb1f0dad-2074-4e8e-9ab8-da2056816cf4/download)）。
@@ -1278,4 +1343,4 @@ pfAny を 0 に戻さない（結果がビットまで同じ）。
 （[Analysis and prevention of edge cracking during hot rolling of non-oriented electrical steel sheets](https://www.sciencedirect.com/science/article/abs/pii/S0921509398011149)）。
 既定を 0（無効）にしているのは、この間隔に裏付けが無いため。
 
-測定: 2026-09-20、Apple M2・8 GB・Node 24.14、質量スケーリング 1e4。main 8e63376 の上。
+測定: 2026-09-20、Apple M2・8 GB・Node 24.14、質量スケーリング 1e4。'none' の値は main 8e63376 の上、'dfg'（今の値）は `feat/dfg-default`（main d4101cd の上）で CPU ロックを取って測り直した（T74）。
